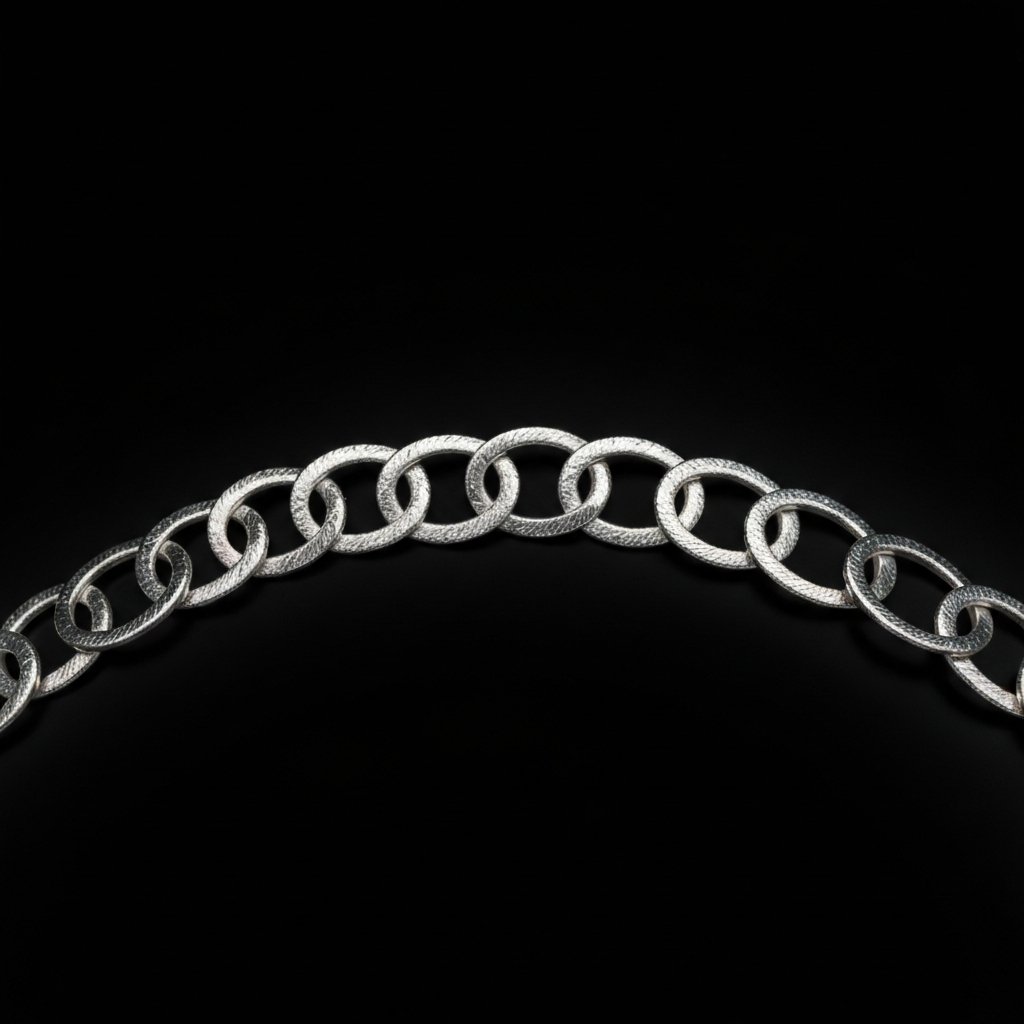
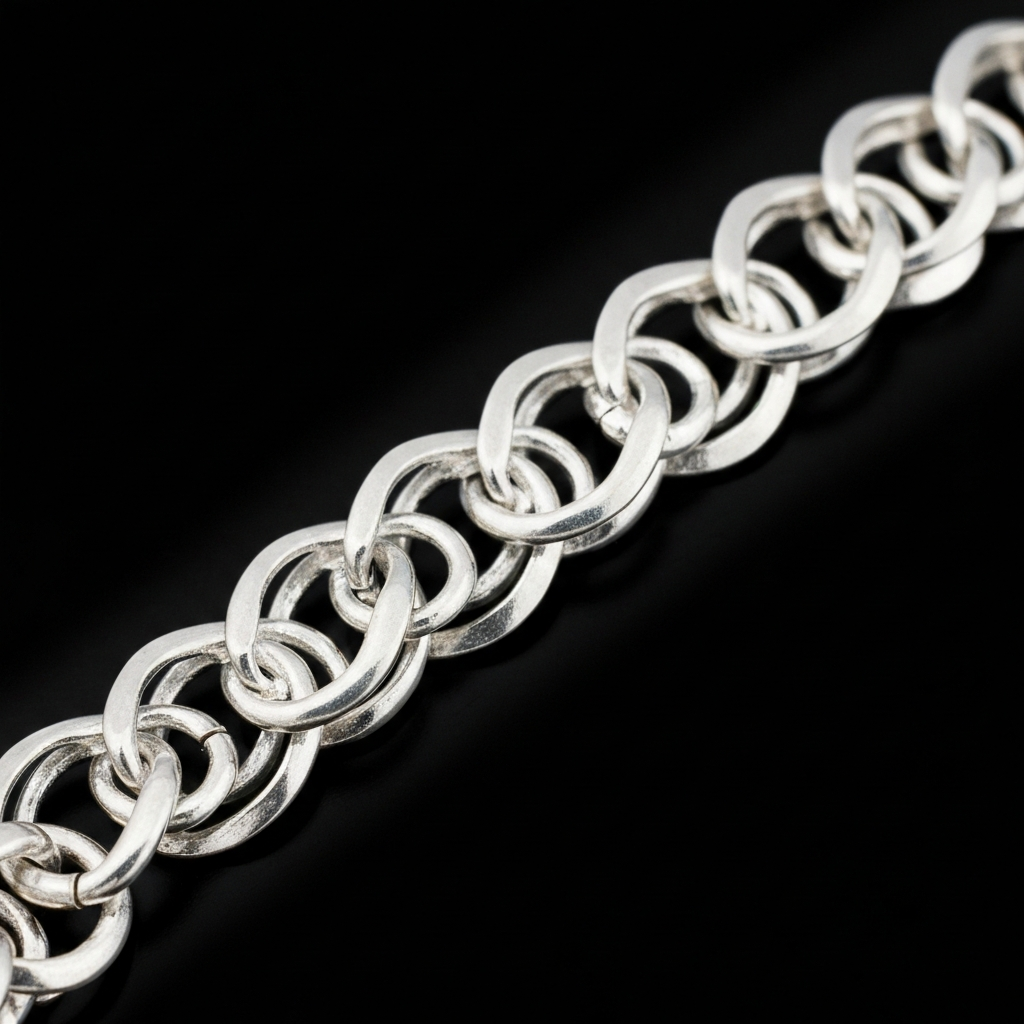
Fix chain calc pricing, labels, defaults and add weave lightbox
Pricing: BASE_CHAIN_LABOR_RATE 18→24 PLN/10cm (calibrated to market:
55cm silver pancerka 15g ≈ 240 PLN wholesale)
Wire diameter default: 0.8→1.2mm (more realistic for typical chains)
Default clasp: lobster→spring (sprężynka)
Pancerz→Pancerka (correct Polish term)
Regenerated Bizmark weave image
Added double-click lightbox on weave images (shows large photo + factor/waste info)

https://claude.ai/code/session_01XvMDpBh2sxgUiF4RtNVnau

Changed region(s): [[0.0, 0.0, 1.0, 1.0]]

diff --git a/src/components/calculators/JewelryCalc.jsx b/src/components/calculators/JewelryCalc.jsx
@@ -253,7 +253,8 @@ export function calcChain({ typeId, metalId, weaveId, claspId, platingId, engrav
   const metalCost = clientSuppliesMetal ? 0 : wireMassG * plnPerG * metal.purity;
 
   // Labor: base rate per 10cm of chain × weave labor multiplier × metal multiplier
-  const BASE_CHAIN_LABOR_RATE = 18; // PLN per 10cm
+  // Calibrated: 55cm silver pancerka (1.4mm wire, 15g) = ~100 PLN labor → ~240 PLN wholesale
+  const BASE_CHAIN_LABOR_RATE = 24; // PLN per 10cm
   const laborCost = (lengthCm / 10) * BASE_CHAIN_LABOR_RATE * weave.laborMul * metal.laborMul;
 
   const claspCost = clasp.cost;
@@ -405,10 +406,11 @@ export default function JewelryCalc({ lang = "pl" }) {
   const [engravingId, setEngravingId] = useState("none");
   // Chain-specific state
   const [weaveId, setWeaveId] = useState("ankier");
-  const [claspId, setClaspId] = useState("lobster");
+  const [claspId, setClaspId] = useState("spring");
   const [chainLengthMm, setChainLengthMm] = useState(450);
   const [weaveWidthMm, setWeaveWidthMm] = useState(3.0);
-  const [wireDiameterMm, setWireDiameterMm] = useState(0.8);
+  const [wireDiameterMm, setWireDiameterMm] = useState(1.2);
+  const [weaveModal, setWeaveModal] = useState(null);
   // Stone rows — up to 10 different stone entries
   const [stoneRows, setStoneRows] = useState([
     { rowId: "row0", gemId: "none", stoneSizeId: "small", count: 1, suppliedBy: "studio",
@@ -682,6 +684,9 @@ export default function JewelryCalc({ lang = "pl" }) {
           {/* Weave selection — chain types only */}
           {isChainType(typeId) && (
             <CalcCard stepNum={step()} label={{ pl: "Splot łańcuszka", en: "Chain weave", de: "Kettenmuster" }[lang]}>
+              <p className="text-[10px] text-neutral-500 mb-2">
+                {{ pl: "Kliknij dwukrotnie na zdjęcie — powiększ podgląd splotu", en: "Double-click an image to preview the weave pattern", de: "Doppelklick auf ein Bild zum Vergrößern" }[lang]}
+              </p>
               <div className="grid grid-cols-2 sm:grid-cols-3 md:grid-cols-5 gap-2 sm:gap-3">
                 {CHAIN_WEAVES.map(w => {
                   const active = weaveId === w.id;
@@ -702,7 +707,8 @@ export default function JewelryCalc({ lang = "pl" }) {
                         active ? "border-amber-400 bg-amber-400/10 shadow-lg shadow-amber-400/10"
                           : "border-white/10 bg-white/[0.02] hover:border-white/20"
                       }`}>
-                      <div className="w-full aspect-square rounded-lg overflow-hidden bg-gradient-to-br from-white/5 to-white/[0.02] flex items-center justify-center">
+                      <div className="w-full aspect-square rounded-lg overflow-hidden bg-gradient-to-br from-white/5 to-white/[0.02] flex items-center justify-center"
+                        onDoubleClick={e => { e.stopPropagation(); if (w.img) setWeaveModal(w.id); }}>
                         {w.img ? (
                           <img src={w.img} alt={t(w.label, lang)} loading="lazy"
                             className={`w-full h-full object-cover transition-transform duration-300 ${active ? "scale-105" : "group-hover:scale-105"}`} />
@@ -728,6 +734,32 @@ export default function JewelryCalc({ lang = "pl" }) {
               )}
             </CalcCard>
           )}
+
+          {/* Weave image lightbox modal */}
+          {weaveModal && (() => {
+            const wm = CHAIN_WEAVES.find(x => x.id === weaveModal);
+            if (!wm || !wm.img) return null;
+            return (
+              <div className="fixed inset-0 z-50 flex items-center justify-center bg-black/85 backdrop-blur-sm"
+                onClick={() => setWeaveModal(null)}>
+                <div className="relative max-w-md w-full mx-4" onClick={e => e.stopPropagation()}>
+                  <img src={wm.img} alt={t(wm.label, lang)}
+                    className="w-full rounded-2xl shadow-2xl shadow-black/60" />
+                  <div className="mt-4 text-center">
+                    <p className="text-white font-bold text-xl">{t(wm.label, lang)}</p>
+                    <p className="text-neutral-400 text-sm mt-1">
+                      {{ pl: `Współczynnik splotu: ×${wm.weaveFactor} · odpad materiału: ~${wm.materialWaste}%`,
+                         en: `Weave factor: ×${wm.weaveFactor} · material waste: ~${wm.materialWaste}%`,
+                         de: `Flechtfaktor: ×${wm.weaveFactor} · Materialverlust: ~${wm.materialWaste}%`
+                      }[lang]}
+                    </p>
+                  </div>
+                  <button className="absolute top-3 right-3 w-8 h-8 rounded-full bg-black/60 text-white text-sm flex items-center justify-center hover:bg-white/20 transition-colors"
+                    onClick={() => setWeaveModal(null)}>✕</button>
+                </div>
+              </div>
+            );
+          })()}
 
           {/* Clasp selection — chain types only */}
           {isChainType(typeId) && (

diff --git a/src/components/calculators/jewelryConfig.js b/src/components/calculators/jewelryConfig.js
@@ -258,7 +258,7 @@ export const CHAIN_WEAVES = [
   { id: "bizmark",  label: { pl: "Bizmark", en: "Bismark", de: "Bismark" },         weaveFactor: 2.2, laborMul: 1.5, materialWaste: 15, img: "/img/calc/weaves/bizmark.webp" },
   { id: "lisi_ogon",label: { pl: "Lisi ogon", en: "Foxtail", de: "Fuchsschwanz" }, weaveFactor: 2.8, laborMul: 1.8, materialWaste: 18, img: "/img/calc/weaves/lisi_ogon.webp" },
   { id: "omega",    label: { pl: "Omega", en: "Omega", de: "Omega" },               weaveFactor: 1.2, laborMul: 0.9, materialWaste: 6,  img: "/img/calc/weaves/omega.webp" },
-  { id: "pancerz",  label: { pl: "Pancerz", en: "Curb", de: "Panzer" },             weaveFactor: 1.5, laborMul: 1.1, materialWaste: 9,  img: "/img/calc/weaves/pancerz.webp" },
+  { id: "pancerz",  label: { pl: "Pancerka", en: "Curb", de: "Panzer" },             weaveFactor: 1.5, laborMul: 1.1, materialWaste: 9,  img: "/img/calc/weaves/pancerz.webp" },
   { id: "rolo",     label: { pl: "Rolo", en: "Rolo / Belcher", de: "Rolo" },        weaveFactor: 1.2, laborMul: 0.9, materialWaste: 7,  img: "/img/calc/weaves/rolo.webp" },
   { id: "venezia",  label: { pl: "Wenecja", en: "Venetian", de: "Venezia" },        weaveFactor: 1.7, laborMul: 1.3, materialWaste: 12, img: "/img/calc/weaves/venezia.webp" },
   { id: "spirala",  label: { pl: "Spirala (lina)", en: "Rope", de: "Seil" },        weaveFactor: 3.2, laborMul: 2.0, materialWaste: 20, img: "/img/calc/weaves/spirala.webp" },